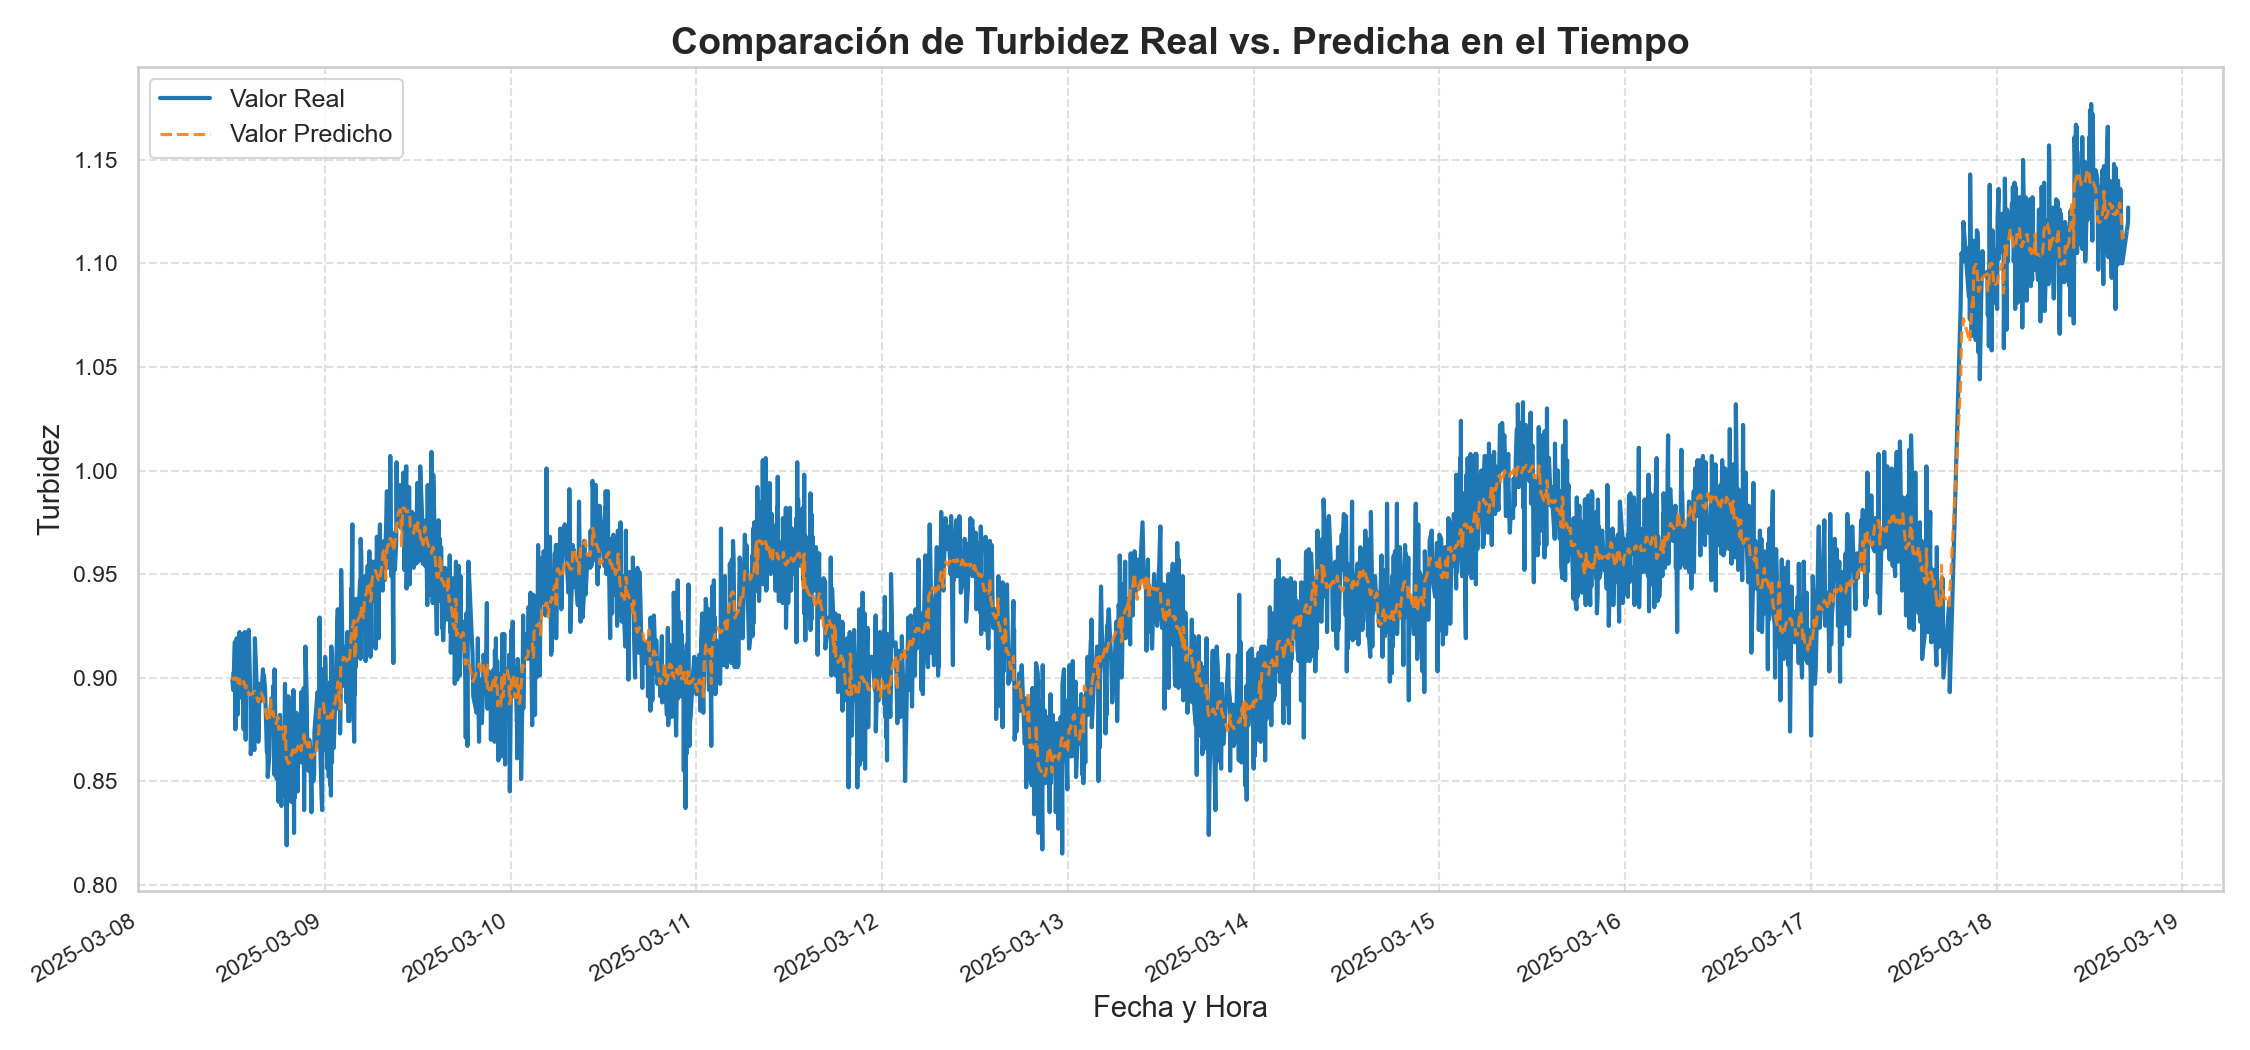
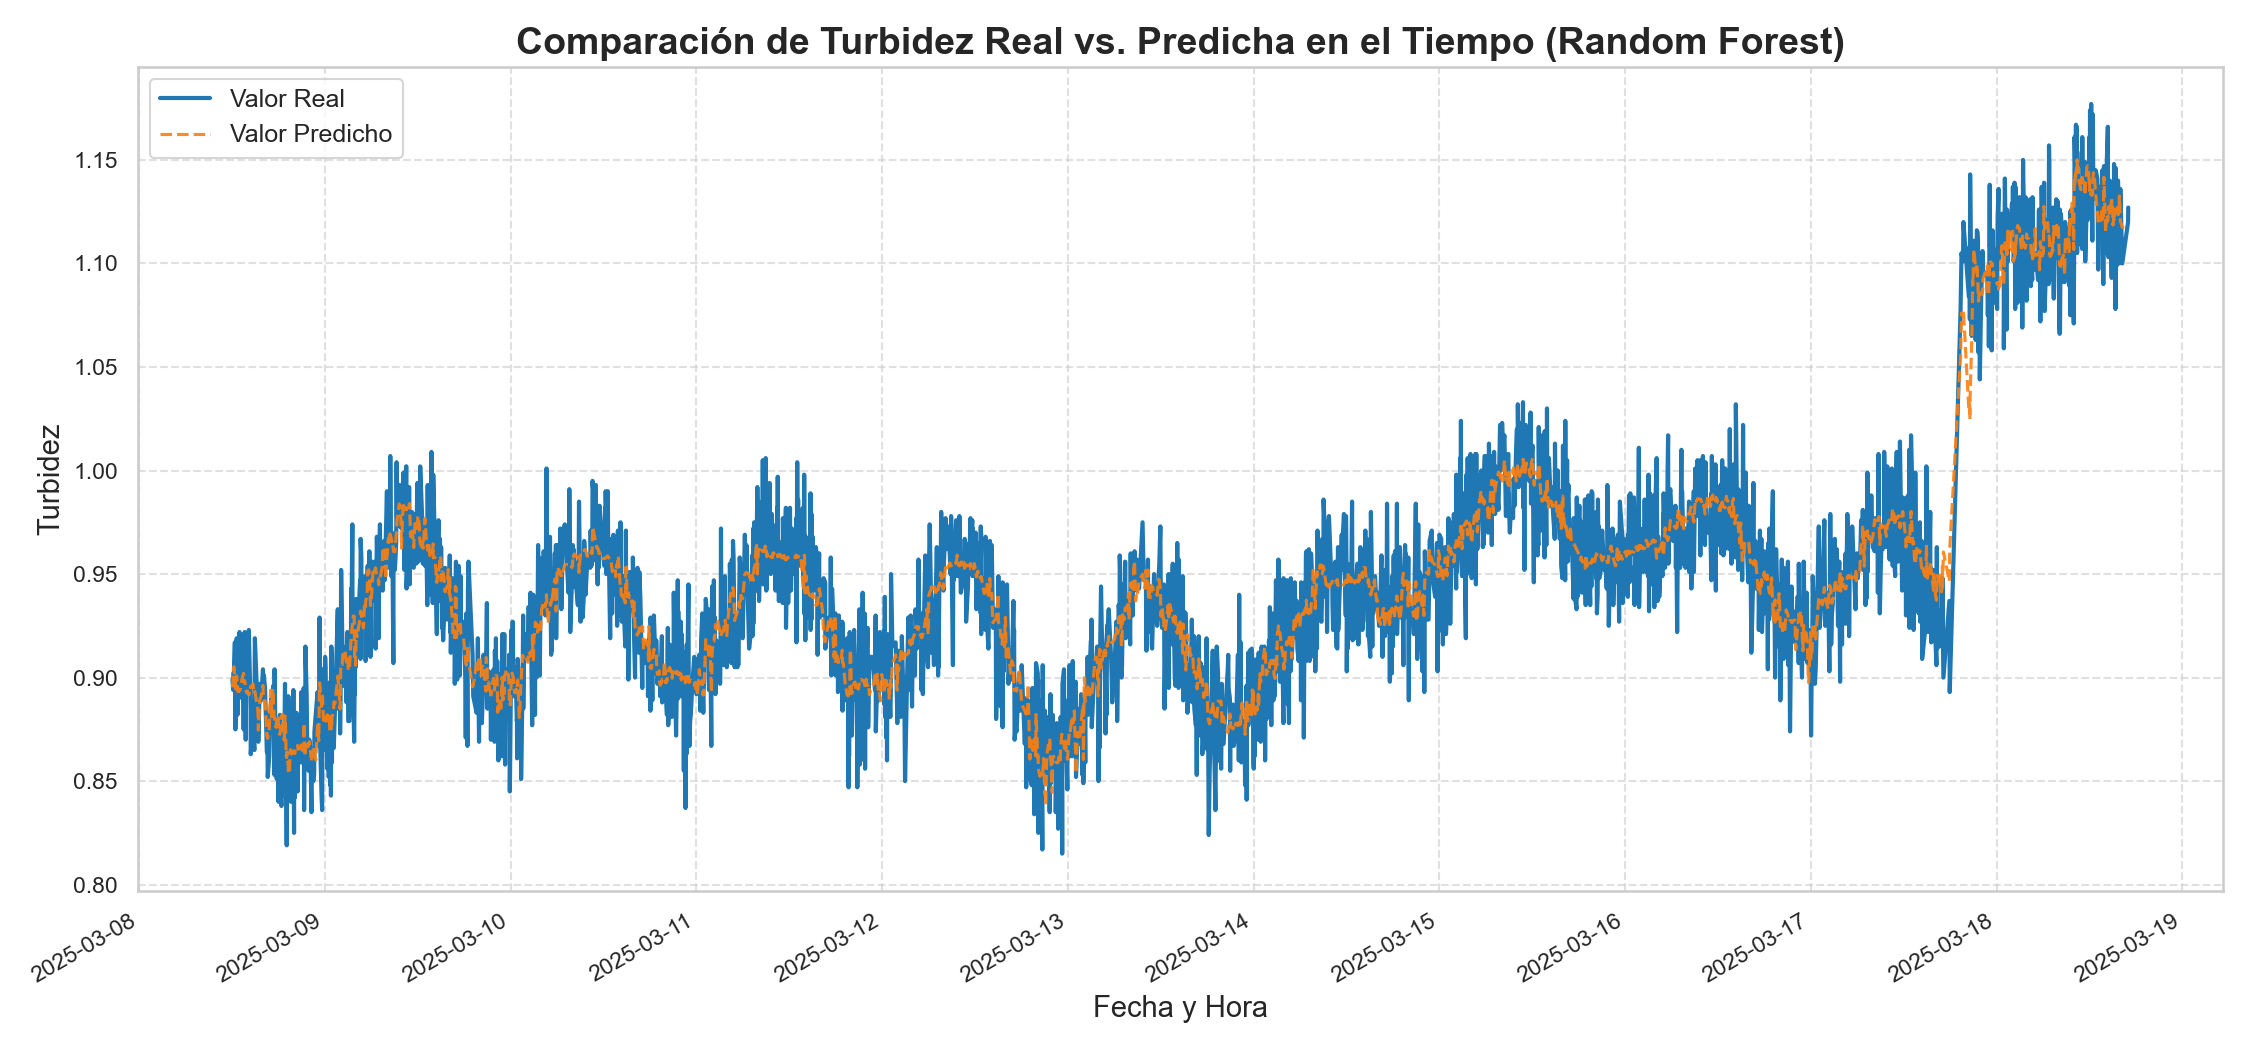
Update Random Forest - add XGBoost

diff --git a/src/methods/xgboost/train_xgboost.py b/src/methods/xgboost/train_xgboost.py
@@ -4,7 +4,7 @@ import json
 import logging
 from pathlib import Path
 from sklearn.model_selection import train_test_split
-from sklearn.ensemble import RandomForestRegressor
+import xgboost as xgb  # Se importa la librería de XGBoost
 from sklearn.metrics import mean_squared_error, r2_score, mean_absolute_error
 import matplotlib.pyplot as plt
 import seaborn as sns
@@ -24,18 +24,18 @@ def configurar_logging(log_path: Path):
     )
 
 # --- VARIABLES GLOBALES DE CONFIGURACIÓN ---
-USAR_BEST_PARAMS = False
-SHOW_PLOTS = True
+USAR_BEST_PARAMS = True
+SHOW_PLOTS = False
 
 # --- Definición de Rutas ---
-model_path = Path('src') / 'methods' / 'random_forest'
+model_path = Path('src') / 'methods' / 'xgboost'
 logs_path = model_path / "logs"
-log_name = "train_random_forest.log" if not USAR_BEST_PARAMS else "train_random_forest_best_params.log"
+log_name = "train_xgboost.log" if not USAR_BEST_PARAMS else "train_xgboost_best_params.log"
 log_file = logs_path / log_name
 
 # Se configura el logging antes de cualquier otra operación.
 configurar_logging(log_path=log_file)
-logging.info("===== INICIO DEL ENTRENAMIENTO DEL MODELO RANDOM FOREST =====")
+logging.info("===== INICIO DEL ENTRENAMIENTO DEL MODELO XGBOOST =====")
 
 if USAR_BEST_PARAMS:
     # Se obtienen los hiperparámetros optimizados desde el archivo JSON.
@@ -79,15 +79,11 @@ logging.info(f"Tamaño de X_train: {X_train.shape}")
 logging.info(f"Tamaño de X_test: {X_test.shape}")
 
 # --- 4. Creación y Entrenamiento del Modelo ---
-logging.info("Creando y entrenando el modelo RandomForestRegressor.")
+logging.info("Creando y entrenando el modelo XGBoost Regressor.")
 # Se usan los hiperparámetros optimizados si la variable global es True.
 if USAR_BEST_PARAMS:
-    modelo_rf = RandomForestRegressor(
-        n_estimators=best_params['n_estimators'],
-        max_depth=best_params['max_depth'],
-        min_samples_split=best_params['min_samples_split'],
-        min_samples_leaf=best_params['min_samples_leaf'],
-        max_features=best_params['max_features'],
+    modelo_xgb = xgb.XGBRegressor(
+        **best_params,
         random_state=42,
         n_jobs=-1
     )
@@ -95,17 +91,18 @@ if USAR_BEST_PARAMS:
     print(f"✅ Modelo creado con hiperparámetros optimizados: {best_params}")
 else:
     # Se usa un modelo con parámetros por defecto si no se usan los optimizados.
-    modelo_rf = RandomForestRegressor(n_estimators=100, random_state=42, n_jobs=-1)
-    logging.info(f"Modelo creado con hiperparámetros por defecto: {modelo_rf.get_params()}")
-    print(f"✅ Modelo creado con hiperparámetros por defecto: {modelo_rf.get_params()}")
+    modelo_xgb = xgb.XGBRegressor(random_state=42, n_jobs=-1)
+    logging.info(f"Modelo creado con hiperparámetros por defecto: {modelo_xgb.get_params()}")
+    print(f"✅ Modelo creado con hiperparámetros por defecto: {modelo_xgb.get_params()}")
+    
 # Se entrena el modelo.
-modelo_rf.fit(X_train, y_train)
+modelo_xgb.fit(X_train, y_train)
 logging.info("Modelo entrenado con éxito.")
-print("✅ Modelo Random Forest entrenado con éxito.")
+print("✅ Modelo XGBoost entrenado con éxito.")
 
 # --- 5. Predicción y Evaluación ---
 logging.info("Realizando predicciones sobre el conjunto de prueba.")
-predicciones = modelo_rf.predict(X_test)
+predicciones = modelo_xgb.predict(X_test)
 logging.info("Calculando métricas de rendimiento (MAE, RMSE, R²).")
 mae = mean_absolute_error(y_test, predicciones)
 rmse = np.sqrt(mean_squared_error(y_test, predicciones))
@@ -140,7 +137,7 @@ plt.figure(figsize=(10, 6))
 sns.set_theme(style="whitegrid", palette="pastel")
 sns.scatterplot(x=y_test, y=predicciones, alpha=0.7, s=10, edgecolor='k', color="#4F8DFD")
 plt.plot([y_test.min(), y_test.max()], [y_test.min(), y_test.max()], '--', color="#FF6F61", linewidth=2, label="Predicción Perfecta")
-plt.title('Valor Real vs. Valor Predicho (Random Forest)', fontsize=18, fontweight='bold')
+plt.title('Valor Real vs. Valor Predicho (XGBoost)', fontsize=18, fontweight='bold')
 plt.xlabel('Valor Real de Turbidez', fontsize=14)
 plt.ylabel('Valor Predicho de Turbidez', fontsize=14)
 metrics_text = f"MAE: {mae:.2f}\nRMSE: {rmse:.2f}\nR²: {r2:.2f}"
@@ -163,7 +160,7 @@ plt.figure(figsize=(15, 7))
 sns.set_theme(style="whitegrid")
 plt.plot(results_df['Timestamp'], results_df['Real'], label='Valor Real', color='#1f77b4', linewidth=2)
 plt.plot(results_df['Timestamp'], results_df['Predicho'], label='Valor Predicho', color='#ff7f0e', linestyle='--', alpha=0.9)
-plt.title('Comparación de Turbidez Real vs. Predicha en el Tiempo (Random Forest)', fontsize=18, fontweight='bold')
+plt.title('Comparación de Turbidez Real vs. Predicha en el Tiempo (XGBoost)', fontsize=18, fontweight='bold')
 plt.xlabel('Fecha y Hora', fontsize=14)
 plt.ylabel('Turbidez', fontsize=14)
 plt.legend(fontsize=12)
@@ -180,7 +177,7 @@ if SHOW_PLOTS:
 
 # Gráfico 3: Importancia de Características
 logging.info("Generando gráfico de importancia de características.")
-importancias = modelo_rf.feature_importances_
+importancias = modelo_xgb.feature_importances_
 columnas = X.columns
 importancia_df = pd.DataFrame({'Característica': columnas, 'Importancia': importancias})
 importancia_df = importancia_df.sort_values(by='Importancia', ascending=True)
@@ -188,7 +185,7 @@ importancia_df = importancia_df.sort_values(by='Importancia', ascending=True)
 plt.figure(figsize=(12, 8))
 sns.set_theme(style="whitegrid")
 sns.barplot(x='Importancia', y='Característica', data=importancia_df, hue='Característica', palette="viridis", legend=False)
-plt.title('Importancia de cada Característica en el Modelo (Random Forest)', fontsize=18, fontweight='bold')
+plt.title('Importancia de cada Característica en el Modelo XGBoost', fontsize=18, fontweight='bold')
 plt.xlabel('Importancia Relativa', fontsize=14)
 plt.ylabel('Característica', fontsize=14)
 for i, v in enumerate(importancia_df['Importancia']):

diff --git a/src/methods/xgboost/optimizar_xgboost.py b/src/methods/xgboost/optimizar_xgboost.py
@@ -3,9 +3,9 @@ import numpy as np
 import json
 import logging
 import optuna
+import xgboost as xgb
 from pathlib import Path
 from sklearn.model_selection import train_test_split
-from sklearn.ensemble import RandomForestRegressor
 from sklearn.metrics import mean_squared_error
 
 def configurar_logging(log_path: Path):
@@ -23,43 +23,41 @@ def configurar_logging(log_path: Path):
 
 def objective(trial, X_train, X_test, y_train, y_test):
     """
-    Define el objetivo de optimización para un 'trial' de Optuna.
-    Entrena un modelo con los hiperparámetros sugeridos y devuelve su error.
+    Define el objetivo de optimización para un 'trial' de Optuna con XGBoost.
     """
-    # 1. Se definen los rangos de búsqueda para los hiperparámetros.
-    n_estimators = trial.suggest_int('n_estimators', 50, 400)
-    max_depth = trial.suggest_int('max_depth', 5, 50)
-    min_samples_split = trial.suggest_int('min_samples_split', 2, 20)
-    min_samples_leaf = trial.suggest_int('min_samples_leaf', 1, 20)
-    max_features = trial.suggest_float('max_features', 0.1, 1.0)
+    # 1. Se definen los rangos de búsqueda para los hiperparámetros de XGBoost.
+    param = {
+        'objective': 'reg:squarederror',
+        'eval_metric': 'rmse',
+        'n_estimators': trial.suggest_int('n_estimators', 100, 1000),
+        'max_depth': trial.suggest_int('max_depth', 3, 10),
+        'learning_rate': trial.suggest_float('learning_rate', 0.01, 0.3),
+        'subsample': trial.suggest_float('subsample', 0.6, 1.0),
+        'colsample_bytree': trial.suggest_float('colsample_bytree', 0.6, 1.0),
+        'gamma': trial.suggest_float('gamma', 0, 5),
+        'lambda': trial.suggest_float('lambda', 1, 10), # L2 Regularization
+        'alpha': trial.suggest_float('alpha', 0, 10),   # L1 Regularization
+    }
 
     # 2. Se crea el modelo con los hiperparámetros del trial actual.
-    modelo_rf = RandomForestRegressor(
-        n_estimators=n_estimators,
-        max_depth=max_depth,
-        min_samples_split=min_samples_split,
-        min_samples_leaf=min_samples_leaf,
-        max_features=max_features,
-        random_state=42,
-        n_jobs=-1
-    )
+    modelo_xgb = xgb.XGBRegressor(**param, random_state=42, n_jobs=-1)
 
     # 3. Se entrena y evalúa el modelo.
-    modelo_rf.fit(X_train, y_train)
-    predicciones = modelo_rf.predict(X_test)
+    modelo_xgb.fit(X_train, y_train)
+    predicciones = modelo_xgb.predict(X_test)
     rmse = np.sqrt(mean_squared_error(y_test, predicciones))
     
     # 4. Se devuelve el RMSE. Optuna intentará minimizar este valor.
     return rmse
 
-# --- Definición de Rutas ---
-model_path = Path('src') / 'methods' / 'random_forest'
+# --- Definición de Rutas (para XGBoost) ---
+model_path = Path('src') / 'methods' / 'xgboost'
 logs_path = model_path / "logs"
-log_file = logs_path / "optuna_optimization.log"
+log_file = logs_path / "optuna_optimization_xgb.log"
 
 # Se configura el logging.
 configurar_logging(log_path=log_file)
-logging.info("===== INICIO DE LA OPTIMIZACIÓN DE HIPERPARÁMETROS CON OPTUNA =====")
+logging.info("===== INICIO DE LA OPTIMIZACIÓN DE HIPERPARÁMETROS PARA XGBOOST CON OPTUNA =====")
 
 # --- 1. Carga de Datos Procesados ---
 data_path = Path('data') / 'processed' / 'water_quality_processed.xlsx'
@@ -74,22 +72,15 @@ except FileNotFoundError:
 
 # --- 2. Definición de Variables y División de Datos ---
 logging.info("Definiendo y dividiendo los datos.")
-# Se define la variable objetivo.
 y = df['Turbidity']
-# Se definen las variables predictoras de forma dinámica, excluyendo la objetivo y el timestamp.
 X = df.drop(columns=['Turbidity', 'Timestamp'])
 
-# Se dividen los datos en conjuntos de entrenamiento y prueba.
 X_train, X_test, y_train, y_test = train_test_split(X, y, test_size=0.2, random_state=42)
 logging.info(f"Datos divididos. Tamaño de X_train: {X_train.shape}, Tamaño de X_test: {X_test.shape}")
 
 # --- 3. Optimización con Optuna ---
-logging.info("Iniciando el estudio de optimización.")
-# Se crea un 'estudio'. El objetivo es minimizar el resultado de la función 'objective'.
+logging.info("Iniciando el estudio de optimización para XGBoost.")
 study = optuna.create_study(direction='minimize')
-
-# Se ejecuta la optimización. n_trials es el número de combinaciones a probar.
-# Se usa una función lambda para pasar los datos a la función objective.
 study.optimize(lambda trial: objective(trial, X_train, X_test, y_train, y_test), n_trials=100)
 
 logging.info("Optimización completada.")
@@ -102,10 +93,9 @@ best_value = study.best_value
 logging.info(f"Mejor valor (RMSE): {best_value}")
 logging.info(f"Mejores hiperparámetros: {best_params}")
 
-print("\n--- Mejores Resultados Encontrados ---")
+print("\n--- Mejores Resultados Encontrados para XGBoost ---")
 print(f"Mejor RMSE: {best_value:.4f}")
 print("Mejores Hiperparámetros:")
-# Se imprime el JSON de forma legible.
 print(json.dumps(best_params, indent=4))
 
 # Se crea el directorio de resultados y se guarda el JSON.
@@ -118,4 +108,4 @@ with open(output_path, 'w') as f:
 
 logging.info(f"Mejores hiperparámetros guardados en '{output_path}'")
 print(f"\n✅ Hiperparámetros guardados en '{output_path}'")
-logging.info("===== FIN DEL PROCESO DE OPTIMIZACIÓN =====")
+logging.info("===== FIN DEL PROCESO DE OPTIMIZACIÓN DE XGBOOST =====")
